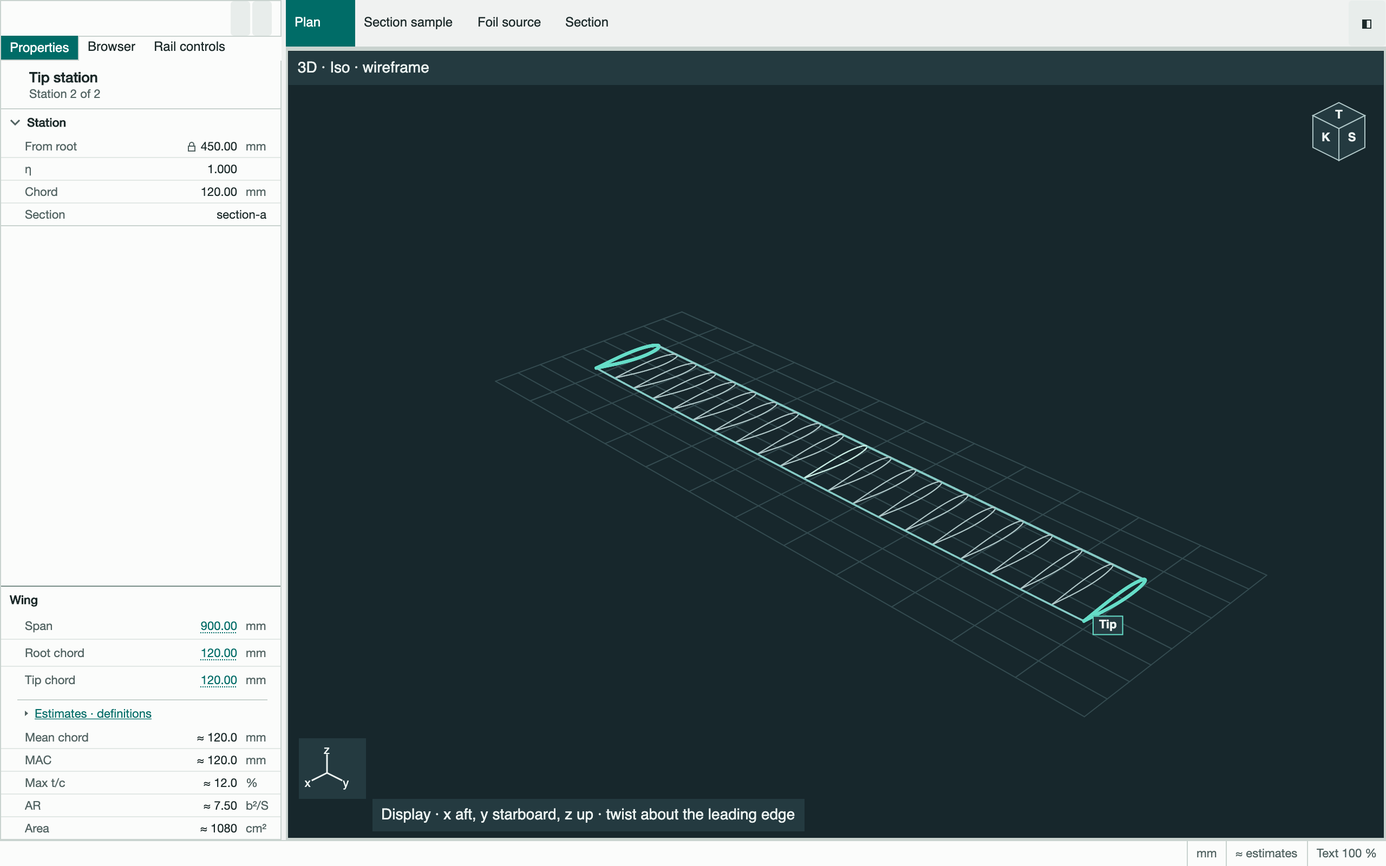
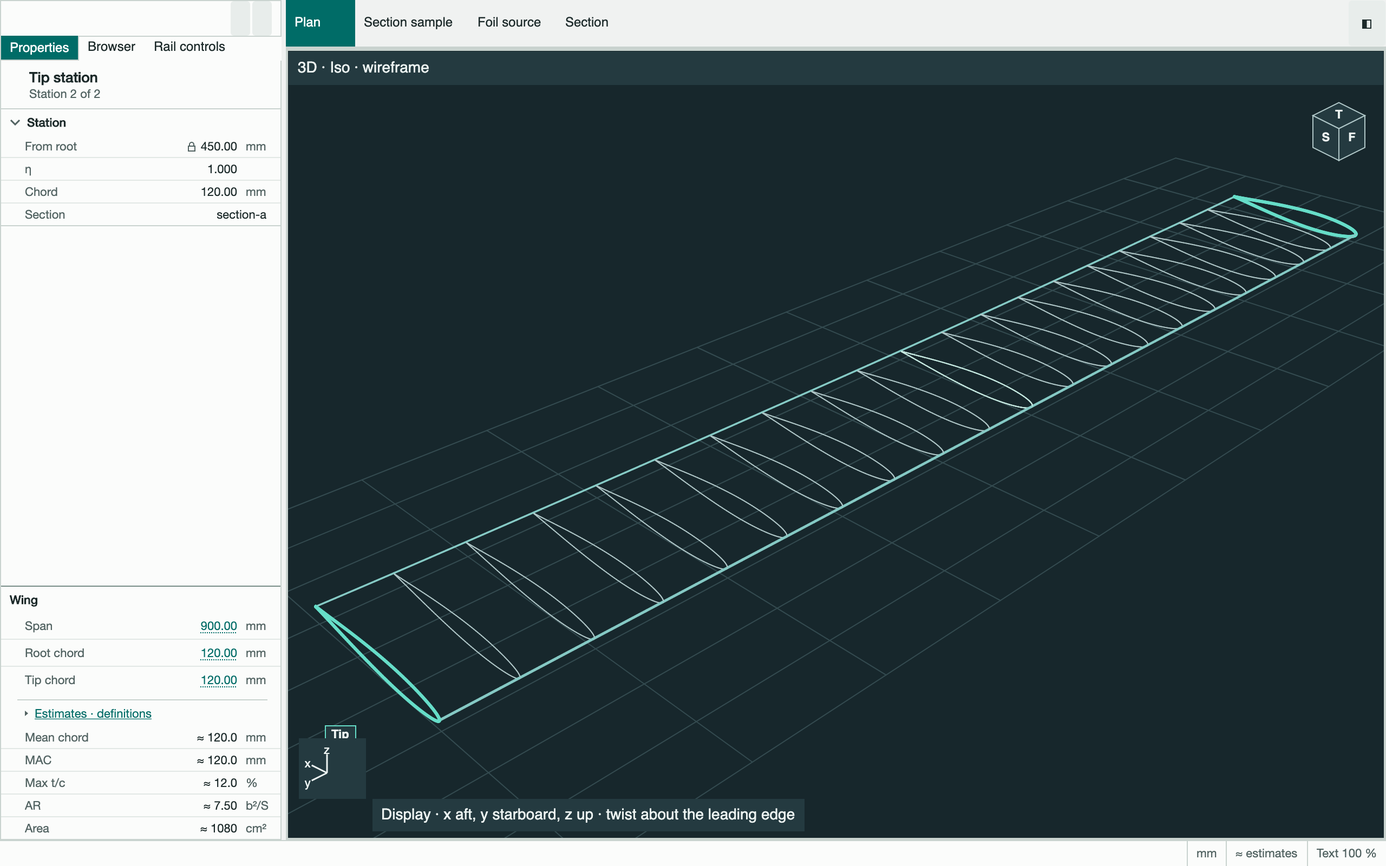
fix(views): Iso from the front and a fit that fills the view (DR-VIEW-5, DR-VIEW-6)
Operator rulings on V3D's reported deviations, recorded as DR-VIEW-5..8. ViewCamera.Named Iso moves from
az 135 (the M1.2a aft quadrant) to az 45: leading edge toward the viewer, cube F/S/T, starboard left. A
perspective Fit now holds the box corners on the 24 px margin (closed form per corner) and centres their
projection with Newton slides, replacing the bounding-sphere fit about the box centre. ViewCameraTests:
the Iso direction is pinned to the ruling; the perspective fit is now required to be tight (was only
inside); recentring under perspective means centred projected bounds (orthographic keeps the box centre
on the view centre). New View3d_DefaultIso_FromFrontFillsWidth. The station chip sits below the section
it names so it never covers the 3 px stroke. Proof captures re-taken.

diff --git a/tests/CfdWorkbench.Desktop.Tests/View3dTests.cs b/tests/CfdWorkbench.Desktop.Tests/View3dTests.cs
@@ -50,9 +50,9 @@ public static class View3dTests
             var face = fixture.RgbAt(UpperFace(surface, 20, 40));
             if (!Between(face, grazing, lit) || face == fixture.Brush("ViewportBrush"))
                 throw new Exception($"Shaded face {face} is not on the ramp {grazing} → {lit}");
-            // The ground grid at z = min z: a grid line aft of the root trailing edge, clear of the foil.
+            // The ground grid at z = min z: the y = 0 line ahead of the root leading edge, clear of the foil.
             var grid = fixture.Brush("ViewportGridBrush");
-            var aft = new Point3(surface.MaximumX + 0.5 * (surface.MaximumX - surface.MinimumX), 0, surface.MinimumZ);
+            var aft = new Point3(surface.MinimumX - 0.5 * (surface.MaximumX - surface.MinimumX), 0, surface.MinimumZ);
             var gridPixel = fixture.NearestTo(aft, grid, 1);
             // A 1 px anti-aliased line: the nearest pixel is much closer to the grid token than to the viewport.
             if (Distance(gridPixel, grid) * 2 > Distance(gridPixel, fixture.Brush("ViewportBrush"))) throw new Exception($"No ground-grid pixel at {fixture.ViewPoint(aft)}: nearest {gridPixel}, grid {grid}");
@@ -78,6 +78,41 @@ public static class View3dTests
             if (inkPixels < 40) throw new Exception($"Triad shows {inkPixels} ink pixels");
         });
 
+        DesktopChecks.Check("View3d_DefaultIso_FromFrontFillsWidth", () =>
+        {
+            // DR-VIEW-5: Iso looks from the front, starboard and above (the approved mockup): the leading edge is nearer
+            // the eye and the cube shows F, S and T. DR-VIEW-6: the fitted wing spans the view's width less the fit margin.
+            var fixture = Fixture.Shared();
+            var camera = fixture.Camera;
+            var view = fixture.View;
+            var surface = fixture.Controller.Surface!;
+            Equal(NamedCamera.Iso, camera.Name, "Iso");
+            Equal("F,S,T", string.Join(",", view.Faces.Select(face => face.Letter).Order()), "Iso cube faces");
+            var root = surface.Sections[0];
+            if (!(camera.Depth(root.Upper[0]) < camera.Depth(root.Upper[^1])))
+                throw new Exception($"The leading edge is not nearer the eye: LE {camera.Depth(root.Upper[0]):F4} m, TE {camera.Depth(root.Upper[^1]):F4} m");
+            double left = double.PositiveInfinity, right = double.NegativeInfinity;
+            foreach (var section in surface.Sections)
+                foreach (var point in section.Upper.Concat(section.Lower))
+                    foreach (var placed in new[] { point, point.Port() })
+                    {
+                        double x = fixture.ViewPoint(placed).X;
+                        left = Math.Min(left, x);
+                        right = Math.Max(right, x);
+                    }
+            double width = view.Bounds.Width, margin = ViewCamera.FitMarginPixels;
+            // The fit holds the bounding box's corners inside the margin; the wing reaches those corners at its tips to
+            // within the tips' few-millimetre thickness, so allow 4 px.
+            if (right - left < width - 2 * margin - 4)
+                throw new Exception($"The fitted wing spans {right - left:F1} px of a {width:F0} px view (margin {margin} px)");
+            if (left < margin - 1e-6 || right > width - margin + 1e-6) throw new Exception($"The wing leaves the margin: {left:F1} … {right:F1}");
+            fixture.Shoot();
+            var foil = fixture.Brush("PlanFoilBrush");
+            var starboardTip = surface.Sections[^1].Upper[0];
+            if (Distance(fixture.NearestTo(starboardTip, foil, 1), foil) > 40) throw new Exception("No outline at the starboard tip's leading edge");
+            if (!(fixture.ViewPoint(starboardTip).X < fixture.ViewPoint(starboardTip.Port()).X)) throw new Exception("Starboard is not on the viewer's left");
+        });
+
         DesktopChecks.Check("View3d_DisplayWireframeShaded_RenderedPerMode", () =>
         {
             var fixture = Fixture.Shared();
@@ -87,13 +122,25 @@ public static class View3dTests
             fixture.Controller.SetDisplay(SingleView.ThreeD, DisplayMode.Wireframe);
             fixture.Shoot();
             Equal("3D · Iso · wireframe", fixture.Area.ThreeDLabel.Content as string, "wireframe title");
-            Equal(background, fixture.RgbAt(UpperFace(surface, 22, 50)), "wireframe interior");
+            // No fill: across the upper surface's interior many pixels are the viewport — the 1 px ground-grid lines and
+            // the thin mesh rows cross the rest; a fill leaves none (shaded, every one of these samples is on the ramp).
+            int samples = 0, empty = 0;
+            for (int row = 16; row <= 28; row += 2)
+                for (int sample = 30; sample <= 70; sample += 10)
+                {
+                    samples++;
+                    if (fixture.RgbAt(UpperFace(surface, row, sample)) == background) empty++;
+                }
+            if (empty < 0.4 * samples) throw new Exception($"Wireframe interior: {empty} of {samples} samples are the viewport colour");
             var edge = fixture.NearestTo(surface.Sections[20].Upper[0], fixture.Brush("PlanFoilBrush"), 1);
             if (Distance(edge, fixture.Brush("PlanFoilBrush")) > 30) throw new Exception("Wireframe lost the outline: " + edge);
             fixture.Controller.SetDisplay(SingleView.ThreeD, DisplayMode.Shaded);
             fixture.Shoot();
             Equal("3D · Iso", fixture.Area.ThreeDLabel.Content as string, "shaded title");
             if (!Between(fixture.RgbAt(UpperFace(surface, 22, 50)), grazing, lit)) throw new Exception("Shaded did not return the fill");
+            for (int row = 16; row <= 28; row += 2)
+                for (int sample = 30; sample <= 70; sample += 10)
+                    if (fixture.RgbAt(UpperFace(surface, row, sample)) == background) throw new Exception($"Shaded leaves row {row} sample {sample} unfilled");
         });
 
         DesktopChecks.Check("View3d_SignFixture_ExampleTipTrailingEdgeRenderedHigher", () =>
@@ -128,7 +175,7 @@ public static class View3dTests
             fixture.Drag(centre, new Vector(40, -20), MouseButton.Left, KeyModifiers.Alt);
             var expected = start.Orbit(40 * View3d.OrbitDegreesPerPixel, -20 * View3d.OrbitDegreesPerPixel);
             Equal(expected, fixture.Camera, "orbit by the drag");
-            Equal("3D · Free · az 155° · el 20°", fixture.Area.ThreeDLabel.Content as string, "title after the orbit");
+            Equal("3D · Free · az 65° · el 20°", fixture.Area.ThreeDLabel.Content as string, "title after the orbit");
             Equal(Projection.Perspective, fixture.Camera.Projection, "orbit is perspective");
         });
 
@@ -324,11 +371,11 @@ public static class View3dTests
             Equal("3D view: Side.", fixture.Host.StatusStrip.Text, "announced in the status strip");
             Equal("3D · Side", fixture.Area.ThreeDLabel.Content as string, "title");
             fixture.Reset(ViewCamera.Named(NamedCamera.Iso, minimum, maximum, size));
-            var back = fixture.View.FaceButton(NamedCamera.Back) ?? throw new Exception("The K face is not a button at Iso");
-            back.RaiseEvent(new RoutedEventArgs(Button.ClickEvent));
+            var front = fixture.View.FaceButton(NamedCamera.Front) ?? throw new Exception("The F face is not a button at Iso");
+            front.RaiseEvent(new RoutedEventArgs(Button.ClickEvent));
             fixture.Settle();
-            Equal(ViewCamera.Named(NamedCamera.Back, minimum, maximum, size), fixture.Camera, "the K face button");
-            Equal("3D view: Back.", fixture.Host.StatusStrip.Text, "announced");
+            Equal(ViewCamera.Named(NamedCamera.Front, minimum, maximum, size), fixture.Camera, "the F face button");
+            Equal("3D view: Front.", fixture.Host.StatusStrip.Text, "announced");
         });
 
         DesktopChecks.Check("View3d_CubeChevron_Orbits90", () =>
@@ -354,7 +401,7 @@ public static class View3dTests
         {
             var fixture = Fixture.Shared();
             var view = fixture.View;
-            Equal("K,S,T", string.Join(",", view.Faces.Select(face => face.Letter).Order()), "Iso faces with area (aft, starboard, above)");
+            Equal("F,S,T", string.Join(",", view.Faces.Select(face => face.Letter).Order()), "Iso faces with area (front, starboard, above)");
             foreach (var face in view.Faces)
             {
                 double fits = Inscribed(face);
@@ -461,7 +508,7 @@ public static class View3dTests
             if (!fixture.Host.Properties.GetVisualDescendants().OfType<TextBlock>().Any(text => text.Text == "Tip station"))
                 throw new Exception("Properties does not show the tip station");
             // Empty space picks nothing and keeps the selection.
-            fixture.ClickView(new Point(20, fixture.View.Bounds.Height / 2));
+            fixture.ClickView(new Point(fixture.View.Bounds.Width / 2, 100));
             Equal(new Selection.Station(index, tip.Eta), fixture.Controller.Selection, "a click on empty space");
         });
 
@@ -483,6 +530,8 @@ public static class View3dTests
                 throw new Exception("Chip outside the view: " + chip);
             Equal(fixture.Brush("PlanSoftBrush"), fixture.RgbAtView(new Point(chip.Right - 2.5, chip.Center.Y)), "chip plate");
             if (Distance(fixture.RgbAtView(new Point(chip.Center.X, chip.Y + 0.5)), station) > 30) throw new Exception("Chip border is not station");
+            if (tip.Upper.Concat(tip.Lower).Select(fixture.ViewPoint).Any(point => chip.Contains(point)))
+                throw new Exception("The chip covers the station it names");
             fixture.Controller.Select(new Selection.Foil());
             fixture.Shoot();
             if (fixture.View.ChipBounds is not null) throw new Exception("Chip stays without a selected station");
@@ -501,13 +550,13 @@ public static class View3dTests
             fixture.MoveDrag(fixture.Centre + new Vector(20, 0), KeyModifiers.Alt);
             fixture.MoveDrag(fixture.Centre + new Vector(40, 10), KeyModifiers.Alt);
             if (view.CurrentCamera == start) throw new Exception("The drag did not orbit");
-            Equal("3D · Free · az 155° · el 35°", fixture.Area.ThreeDLabel.Content as string, "the title follows the drag");
+            Equal("3D · Free · az 65° · el 35°", fixture.Area.ThreeDLabel.Content as string, "the title follows the drag");
             Equal(start, fixture.Camera, "the controller takes the camera at release, not per frame");
             Equal("3D view, camera Iso", AutomationProperties.GetName(view), "name during the drag");
             fixture.EndDrag(fixture.Centre + new Vector(40, 10));
-            Equal("3D view, camera Free, azimuth 155°, elevation 35°", AutomationProperties.GetName(view), "name at the end of the drag");
+            Equal("3D view, camera Free, azimuth 65°, elevation 35°", AutomationProperties.GetName(view), "name at the end of the drag");
             fixture.Key(Key.Right, KeyModifiers.Alt);
-            Equal("3D view, camera Free, azimuth 170°, elevation 35°", AutomationProperties.GetName(view), "name after one key step");
+            Equal("3D view, camera Free, azimuth 80°, elevation 35°", AutomationProperties.GetName(view), "name after one key step");
             view.ApplyPreset(NamedCamera.Front);
             fixture.Settle();
             Equal("3D view, camera Front", AutomationProperties.GetName(view), "name after a preset");
@@ -524,7 +573,7 @@ public static class View3dTests
                 View3d.HelpText, "help copy (§11.4)");
             var children = peer.GetChildren();
             var names = children.Select(child => (child.GetAutomationControlType(), child.GetName())).ToArray();
-            foreach (var expected in new[] { "Back view", "Side view", "Orbit left 90°", "Orbit up 90°", "Orbit down 90°", "Orbit right 90°" })
+            foreach (var expected in new[] { "Front view", "Side view", "Orbit left 90°", "Orbit up 90°", "Orbit down 90°", "Orbit right 90°" })
                 if (!names.Contains((AutomationControlType.Button, expected)))
                     throw new Exception($"No Button peer '{expected}': {string.Join(", ", names.Select(item => item.Item1 + " " + item.Item2))}");
             if (names.Any(item => item.Item2 == "Top view")) throw new Exception("The Iso top face is under 24 px but has a peer");
@@ -542,10 +591,10 @@ public static class View3dTests
             var cameras = new List<ViewCamera?>();
             void Record() => cameras.Add(fixture.Controller.Camera3d);
             fixture.Controller.Changed += Record;
-            var target = ViewCamera.Named(NamedCamera.Back, minimum, maximum, size);
+            var target = ViewCamera.Named(NamedCamera.Side, minimum, maximum, size);
             try
             {
-                fixture.View.FaceButton(NamedCamera.Back)!.RaiseEvent(new RoutedEventArgs(Button.ClickEvent));
+                fixture.View.FaceButton(NamedCamera.Side)!.RaiseEvent(new RoutedEventArgs(Button.ClickEvent));
                 Equal(target, fixture.Controller.Camera3d, "the preset camera, before any frame");
                 for (int frame = 0; frame < 20; frame++) fixture.Settle();
             }

diff --git a/tests/CfdWorkbench.Desktop.Tests/ViewCameraTests.cs b/tests/CfdWorkbench.Desktop.Tests/ViewCameraTests.cs
@@ -26,9 +26,12 @@ public static class ViewCameraTests
                 Near(y, forward.Y, 1e-12, name + " y");
                 Near(z, forward.Z, 1e-12, name + " z");
             }
-            // Iso looks from aft, starboard and above (az 135°, el 30°; the M1.2a isometric quadrant) toward the target.
+            // DR-VIEW-5 (operator, 2026-10-02; was the M1.2a aft quadrant, az 135°): Iso looks from the front, starboard and
+            // above (az 45°, el 30°, the approved mockup) — aft, inboard and down toward the target.
             var iso = Forward(Camera(NamedCamera.Iso));
-            if (!(iso.X < 0 && iso.Y < 0 && iso.Z < 0)) throw new Exception($"Iso looks along {iso}");
+            if (!(iso.X > 0 && iso.Y < 0 && iso.Z < 0)) throw new Exception($"Iso looks along {iso}");
+            Near(45, Camera(NamedCamera.Iso).AzimuthDegrees, 0, "Iso azimuth");
+            Near(30, Camera(NamedCamera.Iso).ElevationDegrees, 0, "Iso elevation");
             foreach (var name in Enum.GetValues<NamedCamera>())
                 if (Camera(name).Name != name || Camera(name).Title != name.ToString())
                     throw new Exception(name + " lost its name");
@@ -175,7 +178,8 @@ public static class ViewCameraTests
                 {
                     var camera = ViewCamera.Named(name, Minimum, Maximum, viewport);
                     AssertInside(camera, Minimum, Maximum, viewport, name.ToString());
-                    // Tight on at least one axis for the orthographic presets.
+                    // Tight on at least one axis for the orthographic presets; DR-VIEW-6: a perspective fit is tight too —
+                    // some corner reaches the margin (perspective is not symmetric about the target, so one side).
                     if (camera.Projection == Projection.Orthographic)
                     {
                         var (width, height) = Extent(camera, Minimum, Maximum, viewport);
@@ -183,6 +187,8 @@ public static class ViewCameraTests
                                 height / (viewport.Height - 2 * ViewCamera.FitMarginPixels)) < 0.999)
                             throw new Exception($"{name} at {viewport} does not fill the viewport");
                     }
+                    else if (Reach(camera, Minimum, Maximum, viewport) < 0.999)
+                        throw new Exception($"{name} at {viewport} reaches only {Reach(camera, Minimum, Maximum, viewport):P1} of the way to the margin");
                 }
         });
 
@@ -199,7 +205,7 @@ public static class ViewCameraTests
                 var (width, height) = Extent(camera, low, high, Viewport);
                 double fill = Math.Max(width / (Viewport.Width - 2 * ViewCamera.FitMarginPixels),
                     height / (Viewport.Height - 2 * ViewCamera.FitMarginPixels));
-                if (fill < (camera.Projection == Projection.Orthographic ? 0.999 : 0.5))
+                if (camera.Projection == Projection.Orthographic ? fill < 0.999 : Reach(camera, low, high, Viewport) < 0.999)
                     throw new Exception($"{name}: the station fills only {fill:P0} of the view");
             }
         });
@@ -221,9 +227,11 @@ public static class ViewCameraTests
                             Math.Exp(random.NextDouble() * 6 - 3), Viewport)
                     };
                 var refit = camera.Fit(Minimum, Maximum, Viewport);
-                var projected = refit.Project(middle, Viewport);
-                Near(centre.X, projected.X, 1e-9, "run " + run + " x");
-                Near(centre.Y, projected.Y, 1e-9, "run " + run + " y");
+                // Orthographic: the box centre comes to the view centre. Perspective (DR-VIEW-6): the projected bounds
+                // are centred, as the mockup centres them — the near side draws larger, so the box centre sits off-centre.
+                var projected = refit.Projection == Projection.Orthographic ? refit.Project(middle, Viewport) : BoundsCentre(refit, Minimum, Maximum, Viewport);
+                Near(centre.X, projected.X, 1e-6, "run " + run + " x");
+                Near(centre.Y, projected.Y, 1e-6, "run " + run + " y");
                 AssertInside(refit, Minimum, Maximum, Viewport, "run " + run);
             }
         });
@@ -261,6 +269,28 @@ public static class ViewCameraTests
                     if (at.X < margin || at.Y < margin || at.X > viewport.Width - margin || at.Y > viewport.Height - margin)
                         throw new Exception($"{label}: corner {x},{y},{z} at {at} is outside the {viewport} margin");
                 }
+    }
+
+    private static Point BoundsCentre(ViewCamera camera, Point3 low, Point3 high, Size viewport)
+    {
+        var points = new[] { low.X, high.X }.SelectMany(x => new[] { low.Y, high.Y }.SelectMany(y => new[] { low.Z, high.Z }
+            .Select(z => camera.Project(new Point3(x, y, z), viewport)))).ToArray();
+        return new Point((points.Min(p => p.X) + points.Max(p => p.X)) / 2, (points.Min(p => p.Y) + points.Max(p => p.Y)) / 2);
+    }
+
+    /// <summary>How far the farthest corner reaches from the view centre toward the margin (1 = on the margin).</summary>
+    private static double Reach(ViewCamera camera, Point3 low, Point3 high, Size viewport)
+    {
+        double halfWidth = viewport.Width / 2 - ViewCamera.FitMarginPixels, halfHeight = viewport.Height / 2 - ViewCamera.FitMarginPixels;
+        double reach = 0;
+        foreach (double x in new[] { low.X, high.X })
+            foreach (double y in new[] { low.Y, high.Y })
+                foreach (double z in new[] { low.Z, high.Z })
+                {
+                    var at = camera.Project(new Point3(x, y, z), viewport);
+                    reach = Math.Max(reach, Math.Max(Math.Abs(at.X - viewport.Width / 2) / halfWidth, Math.Abs(at.Y - viewport.Height / 2) / halfHeight));
+                }
+        return reach;
     }
 
     private static (double Width, double Height) Extent(ViewCamera camera, Point3 low, Point3 high, Size viewport)

diff --git a/src/CfdWorkbench.Desktop/ViewCamera.cs b/src/CfdWorkbench.Desktop/ViewCamera.cs
@@ -60,7 +60,8 @@ public readonly record struct ViewCamera(Point3 Target, double AzimuthDegrees, d
             NamedCamera.Bottom => (0d, -90d, Projection.Orthographic),
             NamedCamera.Back => (180d, 0d, Projection.Orthographic),
             NamedCamera.Port => (270d, 0d, Projection.Orthographic),
-            NamedCamera.Iso => (135d, 30d, Projection.Perspective),
+            // DR-VIEW-5: from the front, starboard and above (the approved mockup), leading edge toward the viewer.
+            NamedCamera.Iso => (45d, 30d, Projection.Perspective),
             _ => throw new ArgumentOutOfRangeException(nameof(name))
         };
         return new ViewCamera(default, azimuth, elevation, 1, projection) { Name = name }.Fit(minimum, maximum, viewport);
@@ -130,10 +131,44 @@ public readonly record struct ViewCamera(Point3 Target, double AzimuthDegrees, d
         }
         else
         {
-            // The bounding sphere's tangent cone fits the smaller half-extent of the viewport.
+            // DR-VIEW-6: the box's projection fills the view less the margin, centred as the mockup centres it. Perspective
+            // draws the near side larger, so the camera slides parallel to the screen until the projected bounds are
+            // centred, and at each step takes the nearest distance that keeps every corner inside the margin: a corner at
+            // screen offset a·f/(c + d) stays inside half-extent h while d ≥ |a|·f/h − c (closed form). Each slide is a
+            // Newton step: the two extreme corners move by f·s/(their depth), so it converges in a few steps; 64 is a cap.
+            var (right, up, forward) = Basis();
             double radius = Math.Max(1e-9, Length(Subtract(maximum, minimum)) / 2);
-            double halfAngleTangent = Math.Min(halfWidth, halfHeight) / focal;
-            distance = radius * Math.Sqrt(1 + halfAngleTangent * halfAngleTangent) / halfAngleTangent;
+            var corners = Corners(minimum, maximum).ToArray();
+            distance = 1;
+            for (int step = 0; step < 64; step++)
+            {
+                distance = double.NegativeInfinity;
+                foreach (var corner in corners)
+                {
+                    var offset = Subtract(corner, target);
+                    double along = Dot(offset, forward);
+                    distance = Math.Max(distance, Math.Max(Math.Abs(Dot(offset, right)) * focal / halfWidth,
+                        Math.Abs(Dot(offset, up)) * focal / halfHeight) - along);
+                    distance = Math.Max(distance, radius * 1e-3 - along);
+                }
+                // Screen offsets of the extreme corners on each axis, with the scale (f / depth) of each.
+                (double At, double Scale) left = (double.PositiveInfinity, 0), rightmost = (double.NegativeInfinity, 0);
+                (double At, double Scale) low = (double.PositiveInfinity, 0), high = (double.NegativeInfinity, 0);
+                foreach (var corner in corners)
+                {
+                    var offset = Subtract(corner, target);
+                    double scale = focal / (Dot(offset, forward) + distance);
+                    double x = Dot(offset, right) * scale, y = Dot(offset, up) * scale;
+                    if (x < left.At) left = (x, scale);
+                    if (x > rightmost.At) rightmost = (x, scale);
+                    if (y < low.At) low = (y, scale);
+                    if (y > high.At) high = (y, scale);
+                }
+                double shiftX = (left.At + rightmost.At) / 2, shiftY = (low.At + high.At) / 2;
+                if (Math.Abs(shiftX) < 1e-9 && Math.Abs(shiftY) < 1e-9) break;
+                // Sliding the camera by s along an axis moves a corner by −s·scale; centring the pair needs s = shift / mean scale.
+                target = Add(target, Add(Scale(right, shiftX * 2 / (left.Scale + rightmost.Scale)), Scale(up, shiftY * 2 / (low.Scale + high.Scale))));
+            }
         }
         return this with { Target = target, Distance = distance, FitDistance = distance };
     }

diff --git a/src/CfdWorkbench.Desktop/View3d.cs b/src/CfdWorkbench.Desktop/View3d.cs
@@ -362,11 +362,14 @@ public sealed class View3d : Panel
         if (section is null) return;
         string name = station.Eta == 0 ? "Root" : station.Eta == 1 ? "Tip" : "Station " + (station.Index + 1).ToString(CultureInfo.InvariantCulture);
         var text = Text(name, InkBrush, FontWeight.SemiBold);
+        // Beside the starboard trailing edge, as the mockup places it, but below the section's drawing so it never
+        // covers the 3 px station stroke it names (from the front the section runs right from its trailing edge).
         var trailing = camera.Project(section.Upper[^1], Bounds.Size);
+        double bottom = section.Upper.Concat(section.Lower).Max(point => camera.Project(point, Bounds.Size).Y);
         double width = text.Width + 12, height = 18;
         double left = Math.Clamp(trailing.X + 8, CubeInset, Math.Max(CubeInset, Bounds.Width - CubeInset - width));
-        double top = Math.Clamp(trailing.Y + 4 - height / 2, CubeInset, Math.Max(CubeInset, Bounds.Height - CubeInset - height));
-        var chip = new Rect(left, top, width, height);
+        double top = Math.Clamp(Math.Max(trailing.Y + 4 - height / 2, bottom + 4), CubeInset, Math.Max(CubeInset, Bounds.Height - CubeInset - height));
+        var chip = new Rect(Math.Round(left), Math.Round(top), Math.Ceiling(width), height);   // whole pixels: a crisp 1 px border
         context.FillRectangle(SoftBrush ?? Brushes.Black, chip);
         context.DrawRectangle(new Pen(StationBrush ?? Brushes.White, 1), chip.Deflate(0.5));
         context.DrawText(text, new Point(chip.X + 6, chip.Y + (height - text.Height) / 2));

diff --git a/docs/notes/property-grid-rulings.md b/docs/notes/property-grid-rulings.md
@@ -113,5 +113,9 @@ at bottom of the shell". The pick page (`docs/mockups/status-bar.html`, b7c03c5)
 | **DR-VIEW-2** (OI-9) | No perspective/orthographic toggle for now: named axis views orthographic, Iso and orbit perspective. |
 | **DR-VIEW-3** (OI-10) | Front and Side each fit themselves, each with its own scale bar. |
 | **DR-VIEW-4** | The selected station gets a 3 px station tick at its span in the Front band. |
+| **DR-VIEW-5** (V3D deviation 1) | Iso looks **from the front**, as in the mockup: leading edge toward the viewer, the cube shows F, S and T, starboard on the viewer's left. Built: `ViewCamera.Named` Iso az 45°, el 30° (was az 135°, the M1.2a aft quadrant). Tests: `View3d_DefaultIso_FromFrontFillsWidth`, `ViewCamera_Presets_TopFrontSideIsoBottomBackPort`. |
+| **DR-VIEW-6** (V3D deviation 2) | The Iso fit **fills the view width with a small margin**, as in the mockup. Built: a perspective `Fit` holds the box's corners on the 24 px fit margin and centres their projection (was a bounding-sphere fit about the box centre). Tests: `View3d_DefaultIso_FromFrontFillsWidth`, `ViewCamera_Fit_BoundsInsideViewportMargin`, `ViewCamera_FitSelection_StationBoundsFill`, `ViewCamera_RandomVerbs_FitRecentres`. |
+| **DR-VIEW-7** (V3D deviation 3) | View labels become a small plate top-left, as in the mockup — **not now**: it lands as a separate step after ELV joins (ELV adds the Side and Front slots in `ModelArea`). |
+| **DR-VIEW-8** (V3D deviation 4) | Wireframe density **stays as built**: a thin section every 0.1 of η on each half (the mockup drew ten in all). |
 | **Build** | The operator approved the views mockup (7a96c05): "Yes, build it" — V3D, ELV, PNL. |
 
